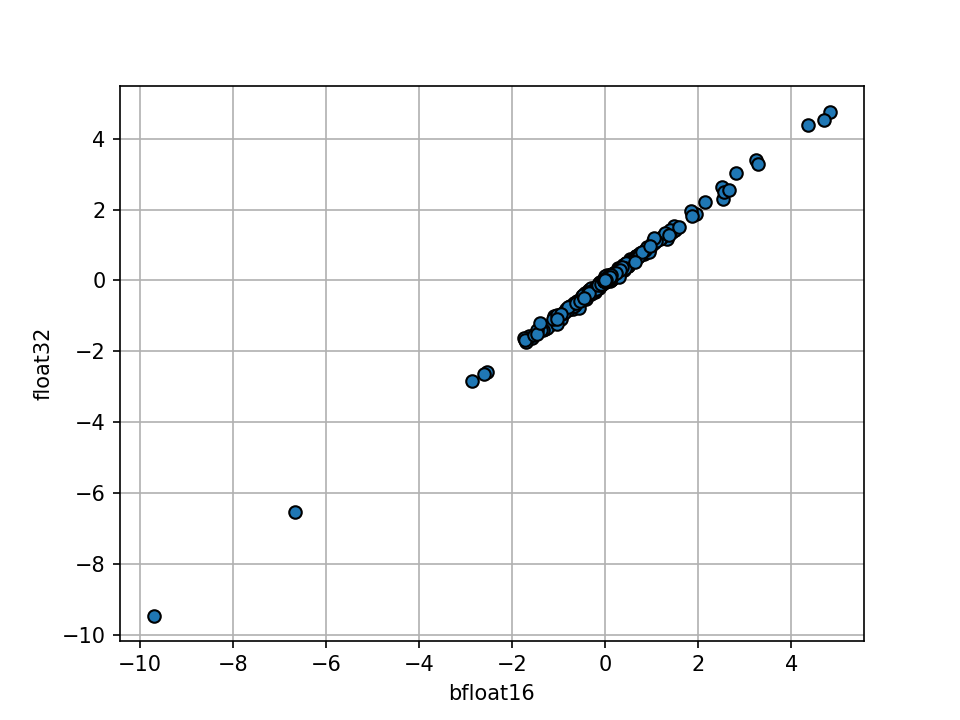
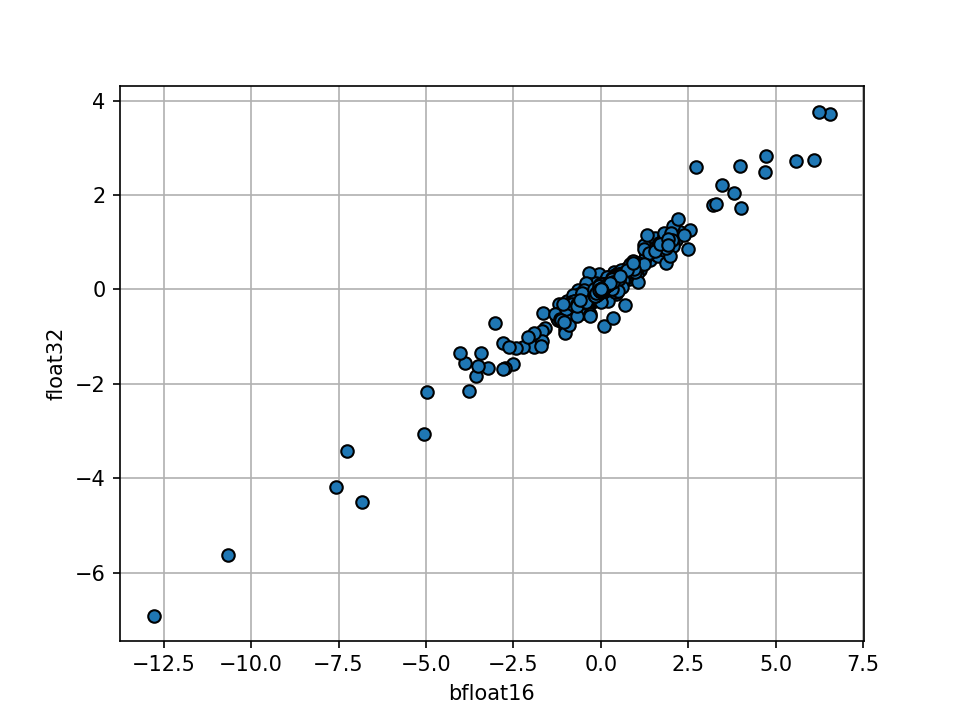
Add tokenwise computation example

diff --git a/examples/wikitext/tokenwise_analysis.py b/examples/wikitext/tokenwise_analysis.py
@@ -1,0 +1,54 @@
+import logging
+import math
+
+import torch
+from colorama import Fore, init
+from transformers import AutoTokenizer
+
+from examples.wikitext.pipeline import get_wikitext_dataset
+from kronfluence.analyzer import Analyzer
+
+init()
+
+
+def color_strength(word: str, strength: int) -> None:
+    strength = max(0, min(1, strength))
+    intensity = math.floor(strength * 255)
+    color = f"\033[38;2;{intensity};0;0m"
+    print(f"{color}{word}{Fore.RESET}", end="")
+
+
+def main():
+    logging.basicConfig(level=logging.INFO)
+
+    # You might need to change the path.
+    scores = Analyzer.load_file("influence_results/wikitext/scores_ekfac_half_per_token/pairwise_scores.safetensors")[
+        "all_modules"
+    ].to(dtype=torch.float32)
+    summed_scores = scores.sum(dim=-1)
+
+    # We can also visualize the top influential sequences.
+    eval_idx = 5
+    train_dataset = get_wikitext_dataset(
+        split="eval_train",
+    )
+    eval_dataset = get_wikitext_dataset(
+        split="valid",
+    )
+    tokenizer = AutoTokenizer.from_pretrained("gpt2", use_fast=True, trust_remote_code=True)
+    print("Query Data Example:")
+    print(tokenizer.decode(eval_dataset[eval_idx]["input_ids"]))
+
+    top_idx = int(torch.argsort(summed_scores[eval_idx], descending=True)[0])
+    tokens = scores[eval_idx][top_idx]
+
+    print("Top Influential Example:")
+    words = tokenizer.batch_decode(train_dataset[top_idx]["input_ids"])
+    strengths = torch.abs(tokens) / torch.abs(tokens).max()
+    strengths = (strengths**0.3).tolist()
+    for word, strength in zip(words, strengths):
+        color_strength(word, strength)
+
+
+if __name__ == "__main__":
+    main()

diff --git a/examples/cifar/half_precision_analysis.py b/examples/cifar/half_precision_analysis.py
@@ -27,7 +27,7 @@ def main():
     plt.rcParams["axes.axisbelow"] = True
 
     # Only plot first 3000 points to avoid clutter.
-    idx = 79
+    idx = 0
     plt.scatter(half_scores[idx][:3000], scores[idx][:3000], edgecolor="k")
     plt.grid()
     plt.xlabel("bfloat16")
@@ -36,9 +36,11 @@ def main():
 
     # Compute the averaged spearman correlation.
     all_corr = []
-    for i in range(100):
+    for i in range(2000):
         all_corr.append(spearmanr(scores[i], half_scores[i])[0])
     logging.info(f"Averaged Spearman Correlation: {np.array(all_corr).mean()}")
+    logging.info(f"Lowest Spearman Correlation: {np.array(all_corr).min()}")
+    logging.info(f"Highest Spearman Correlation: {np.array(all_corr).max()}")
 
 
 if __name__ == "__main__":

diff --git a/examples/cifar/analyze.py b/examples/cifar/analyze.py
@@ -163,8 +163,6 @@ def main():
     scores_name = factor_args.strategy
     if args.use_half_precision:
         score_args = all_low_precision_score_arguments(dtype=torch.bfloat16)
-        score_args.precondition_dtype = torch.float32
-        score_args.per_sample_gradient_dtype = torch.float32
         scores_name += "_half"
     analyzer.compute_pairwise_scores(
         scores_name=scores_name,

diff --git a/examples/cifar/README.md b/examples/cifar/README.md
@@ -98,12 +98,12 @@ Run `half_precision_analysis.py` to verify that AMP-computed scores maintain hig
 
 ## Visualizing Influential Training Images
 
-[This Colab notebook](https://colab.research.google.com/drive/1KIwIbeJh_om4tRwceuZ005fVKDsiXKgr?usp=sharing) provides a tutorial on visualizing the top influential training images.
+For a tutorial on visualizing top influential training images, refer to [this Colab notebook](https://colab.research.google.com/drive/1KIwIbeJh_om4tRwceuZ005fVKDsiXKgr?usp=sharing)
 
 ## Mislabeled Data Detection
 
 We can use self-influence scores (see **Section 5.4** for the [paper](https://arxiv.org/pdf/1703.04730.pdf)) to detect mislabeled examples. 
-First, train the model with 10% of the training examples mislabeled by running:
+First, train the model with 10% of the training examples mislabeled:
 
 ```bash
 python train.py --dataset_dir ./data \
@@ -117,7 +117,7 @@ python train.py --dataset_dir ./data \
     --seed 1004
 ```
 
-Then, compute the self-influence scores with:
+Then compute self-influence scores:
 
 ```bash
 python detect_mislabeled_dataset.py --dataset_dir ./data \
@@ -126,7 +126,7 @@ python detect_mislabeled_dataset.py --dataset_dir ./data \
     --factor_strategy ekfac
 ```
 
-On an A100 (80GB) GPU, it takes roughly 2 minutes to compute the self-influence scores:
+On an A100 (80GB) GPU, this takes approximately 2 minutes:
 
 ```
 ----------------------------------------------------------------------------------------------------------------------------------
@@ -148,7 +148,7 @@ On an A100 (80GB) GPU, it takes roughly 2 minutes to compute the self-influence 
 ----------------------------------------------------------------------------------------------------------------------------------
 ```
 
-Around 80% of mislabeled data points can be detected by inspecting 10% of the dataset (97% by inspecting 20%).
+By inspecting just 10% of the dataset, about 80% of mislabeled data points can be detected (97% by inspecting 20%).
 
 <p align="center">
 <a href="#"><img width="380" img src="figure/mislabel.png" alt="Mislabeled Data Detection"/></a>

diff --git a/examples/wikitext/README.md b/examples/wikitext/README.md
@@ -136,6 +136,8 @@ Top Influential Example:
 
 ## Tokenwise Influence Computations
 
+To compute token-wise influence score, add the `--compute_per_token_score` flag:
+
 ```bash
 python analyze.py --query_batch_size 32 \
     --train_batch_size 64 \
@@ -144,3 +146,5 @@ python analyze.py --query_batch_size 32 \
     --compute_per_token_score \
     --use_half_precision
 ```
+
+The `tokenwise_analysis.py` script contains example codes to visualize the tokenwise influence scores.
